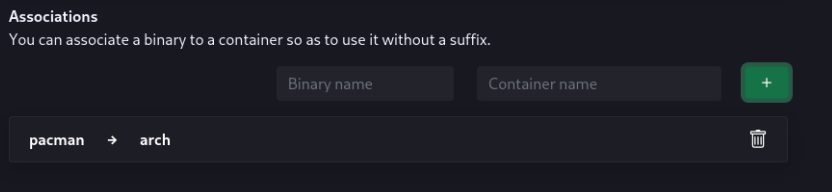
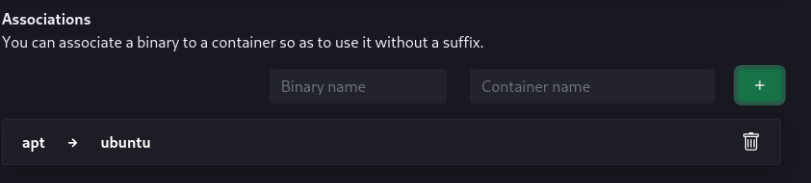
container guide work

diff --git a/docs/install/post-install/container-guide.md b/docs/install/post-install/container-guide.md
@@ -19,11 +19,9 @@ In the first tab (`Linux Containers`) you can create associations and Linux dist
 
 In the first box you can create and manage containers. Simply type the name and choose a distro.
 
-![containers](../../assets/img/containers.gif)
+Keep in mind the container name will influence the binary suffix, and it can be **whatever you want**. You could name your arch container `ub` so you can have a shorter binary suffix (i.e. `apt.ub` instead of `apt.ubuntu`).
 
-Keep in mind the container name will influence the binary suffix, and it can be **whatever you want**. You could name your arch container `ar` so you can have a shorter binary suffix (i.e. `pacman.ar` instead of `pacman.arch`).
-
-![container-list](../../assets/img/arch-container.png)
+![ubuntu-container](../../assets/img/ubuntu-container.png)
 
 Once created, you will see your container, along with 2 options:
 
@@ -31,6 +29,10 @@ Once created, you will see your container, along with 2 options:
 - :material-trash-can-outline: Delete container
 
 *[binary suffix]: The part after a container binary, like .ubuntu for apt.ubuntu
+
+You can also double click on Linux packages and Android APKs to open the blendOS **Package Installer**.
+
+![package-installer](../../assets/img/package-installer.png)
 
 ### :octicons-arrow-switch-16: Associations
 
@@ -42,16 +44,52 @@ You can also create associations to remove annoying binary suffixes. Simply type
 
 ![association-final](../../assets/img/association_final.png)
 
+![association-terminal](../../assets/img/association_terminal.png)
+
 ## :material-android: Waydroid
 
 Click `Initialize Waydroid`.
 
 After Waydroid initializes, you will see options to install [**:simple-fdroid: F-Droid**](https://f-droid.org){ target="_blank" rel="noopener noreferrer" } or the [![aurora](../../assets/img/aurora.png){ .tweemoji width=24 .off-glb .icon-blend-misc } **Aurora Store**](https://www.auroraoss.com/){ target="_blank" rel="noopener noreferrer" }. Click on them to install them. You will also see an option to open Waydroid settings.
 
+
+
 ![waydroid-settings](../../assets/img/waydroid-settings.png)
+
+!!! info "Waydroid's architecture is `x86_64`."
+
+??? abstract "ADB usage"
+    After getting your Android IP from **Settings > About**, use this adb command:
+
+    ```
+    adb connect <IP>:5555
+    ```
+
+Some useful Waydroid CLI commands are:
+
+| Command | Function |
+| -------------------- | -------------------------------- |
+| `waydroid show-full-ui` | Start a full Android session |
+| `waydroid session stop` | Kills all waydroid windows and stops Waydroid from working |
+| `waydroid session start` | Resumes Waydroid |
+| `waydroid shell` | Android shell |
+| `waydroid app install file.apk` | Mostly redundant with our package installer, but useful |
+| `waydroid app launch com.foo.bar` | Open an Android app (you can also do this from your DE's app launcher) |
+| `waydroid log` | Show the Waydroid log |
+
+
+You can learn more about Waydroid and find more guides and commands at https://docs.waydro.id{ target="blank" rel="noopener noreferrer" }.
 
 ??? failure "I'm stuck in Waydroid!"
     If you see a weird transparent android homescreen or are generally stuck in Waydroid, hit your ++win++ key and try to open your terminal (:material-apps-box: > Utilities > Console in GNOME). From there, type `waydroid session stop` into it. This will close any and all Waydroid windows.
+
+    You will need to run `waydroid session start` before using Waydroid again.
+
+??? failure "Play-protected apps aren't launching!"
+    See [the certification guide](https://docs.waydro.id/faq/google-play-certification){ target="_blank" rel="noopener noreferrer" }.
+
+??? failure "Waydroid isn't working on my NVidia card!"
+    [Disable GPU acceleration](https://docs.waydro.id/faq/get-waydroid-to-work-through-a-vm){ target="_blank" rel="noopener noreferrer" }.
 
 ## :material-refresh: System Rebuild
 
